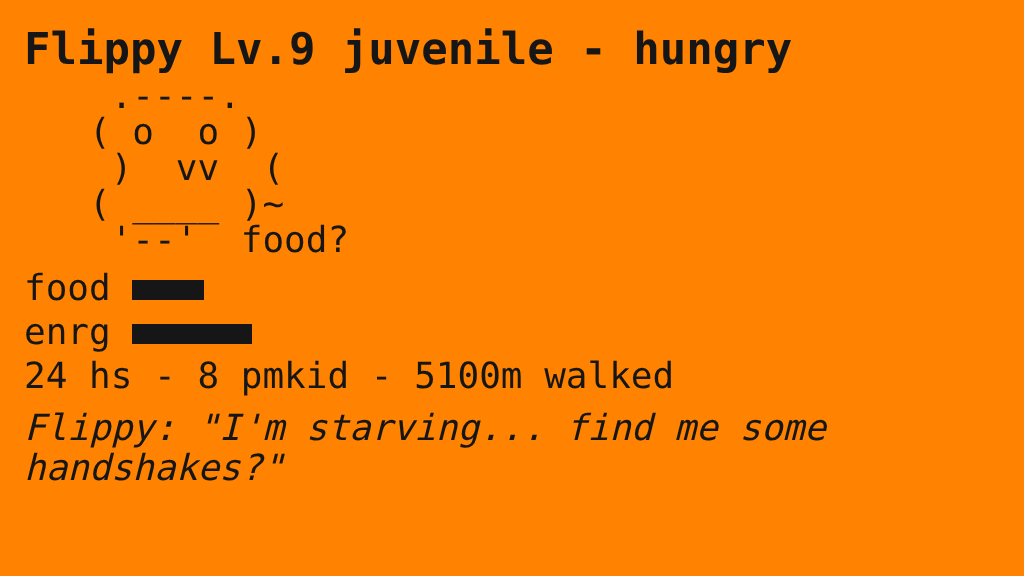
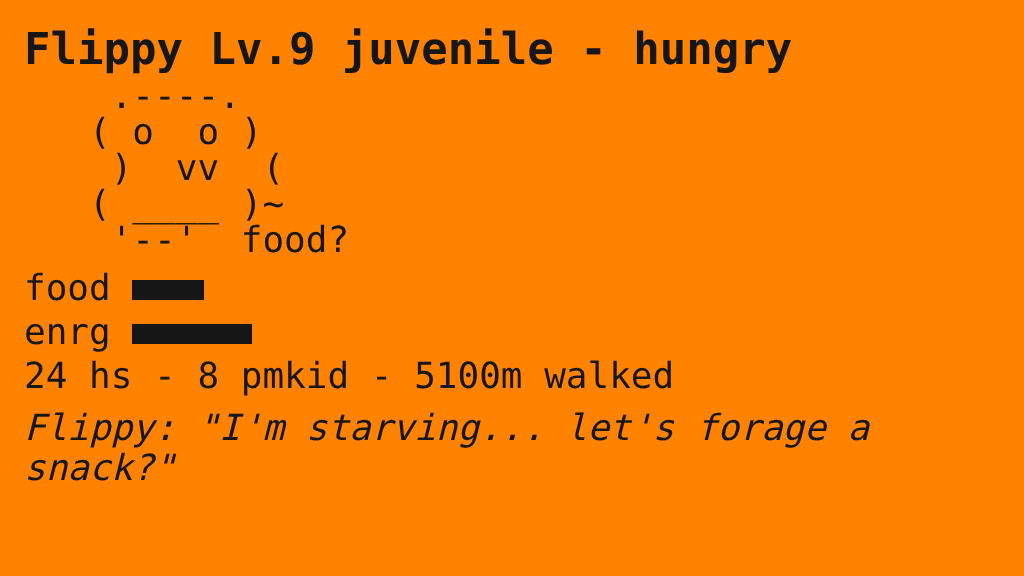
Add animated Flipper One demo GIF + refresh renders for new economy
- docs/demo.gif: catch sequence on a stylised Flipper One chassis (original CSS
  art) wrapping the exact 256x144 orange LCD; generator kept at docs/gen-demo-gif.js
- regenerated static LCD renders to match the foraging economy
- canned "hungry" line no longer calls handshakes food
- remove stale loot_chance from config.example
- README: lead with the animated GIF; note the chassis is original art

Changed region(s): [[0.5625, 0.7188, 0.8438, 0.7812], [0.0312, 0.7812, 0.2812, 0.8438]]

diff --git a/docs/gen-demo-gif.js b/docs/gen-demo-gif.js
@@ -1,0 +1,105 @@
+// Render an animated Flipper One mock-up: a stylised chassis (CSS, original art
+// — the docs ship no device image) wrapping the exact 256x144 orange LCD, cycling
+// through the catch sequence. Frames -> PNGs; Pillow stitches the GIF.
+const { chromium } = require('playwright');
+const fs = require('fs');
+
+const OUT = '/root/flippergotchi/docs/_frames';
+fs.mkdirSync(OUT, { recursive: true });
+const esc = s => s.replace(/&/g, '&amp;').replace(/</g, '&lt;').replace(/>/g, '&gt;');
+
+const FACES = {
+  happy: "   .----.\n  ( ^  ^ )\n   )  ww  (\n  ( '--' )~\n   '----'",
+  excited: "  *.----.*\n  ( O  O )\n   )  WW  (\n  ( '--' )~\n   '----' !!",
+};
+const SCENES = {
+  popup: " A wild Crypterion appeared!\n NETGEAR  Lv8  [wpa2]\n\n   [A] CAPTURE      [B] RUN",
+  aim: "  .--.             ( ~ ~ )\n ( oo )===O        (Crypterion)\n  '--'             ( ~ ~ )\n takes aim with the net-gun...",
+  fire: "  .--.   o O o     ( ~ ~ )\n ( oo )-- * * ---> (Crypterion)\n  '--'             ( ~ ~ )\n *fwoomp* -- net away!",
+  net: "  .--.           #=[   ]=#\n ( ^^ )          #(Crypterion)#\n  '--'           #=[   ]=#\n ...will it hold?",
+  gotcha: " \\(^o^)/         [#######]\n                [Crypterion]  GOTCHA!\n                [#######]\n handshake netted -> bestiary!",
+};
+
+function bar(pct) {
+  return `<span class="bar" style="width:${Math.round(pct * 1.6)}px"></span>`;
+}
+function faceScreen(header, face, say) {
+  return `<div class="hdr">${esc(header)}</div>
+    <pre class="face">${esc(face)}</pre>
+    <div class="row">food ${bar(78)}</div>
+    <div class="row">enrg ${bar(64)}</div>
+    <div class="say">${esc(say)}</div>`;
+}
+function sceneScreen(say, pre) {
+  return `<pre class="big">${esc(pre)}</pre><div class="say">${esc(say)}</div>`;
+}
+
+const CSS = `
+  *{box-sizing:border-box} body{margin:0;background:#0d0d0f;}
+  .device{width:880px;padding:26px 30px 22px;border-radius:46px;
+    background:linear-gradient(160deg,#ff8a1e,#f4760b 60%,#d9620a);
+    box-shadow:inset 0 2px 6px rgba(255,255,255,.35),0 14px 40px rgba(0,0,0,.5);}
+  .brand{font:700 15px/1 monospace;letter-spacing:3px;color:#3a1c02;
+    text-align:right;margin-bottom:12px;opacity:.8;}
+  .bezel{background:#141414;border-radius:18px;padding:16px;
+    box-shadow:inset 0 0 0 2px #000,inset 0 0 14px rgba(0,0,0,.8);}
+  .screen{width:520px;height:292px;margin:0 auto;background:#ff8c12;color:#161008;
+    font-family:'DejaVu Sans Mono',monospace;padding:14px 16px;border-radius:4px;
+    box-shadow:inset 0 0 18px rgba(120,60,0,.55);}
+  .hdr{font:700 15px/1.2 monospace;}
+  .face{font:15px/15px monospace;white-space:pre;margin:6px 0;}
+  .big{font:15px/17px monospace;white-space:pre;margin:18px 0 0;}
+  .row{font:13px/1.5 monospace;}
+  .bar{display:inline-block;height:8px;background:#161008;vertical-align:middle;}
+  .say{font:italic 13px/1.3 monospace;margin-top:10px;}
+  .controls{display:flex;align-items:center;justify-content:space-between;
+    padding:20px 24px 4px;}
+  .dpad{position:relative;width:96px;height:96px;}
+  .dpad div{position:absolute;background:#2a2a2a;border-radius:6px;
+    box-shadow:0 2px 3px rgba(0,0,0,.5);}
+  .dpad .h{top:34px;left:6px;width:84px;height:28px;}
+  .dpad .v{top:6px;left:34px;width:28px;height:84px;}
+  .dpad .c{top:34px;left:34px;width:28px;height:28px;background:#3a3a3a;
+    border-radius:50%;z-index:2;}
+  .abtns{display:flex;gap:20px;}
+  .abtns b{width:54px;height:54px;border-radius:50%;display:grid;place-items:center;
+    font:700 18px/1 monospace;color:#3a1c02;background:#ffd089;
+    box-shadow:0 3px 4px rgba(0,0,0,.4),inset 0 2px 3px rgba(255,255,255,.6);}
+`;
+function chassis(screenHTML) {
+  return `<!doctype html><html><head><meta charset="utf-8"><style>${CSS}</style></head>
+  <body><div class="device">
+    <div class="brand">FLIPPER ONE</div>
+    <div class="bezel"><div class="screen">${screenHTML}</div></div>
+    <div class="controls">
+      <div class="dpad"><div class="h"></div><div class="v"></div><div class="c"></div></div>
+      <div class="abtns"><b>B</b><b>A</b></div>
+    </div>
+  </div></body></html>`;
+}
+
+const frames = [
+  { ms: 950, html: faceScreen('Flippy Lv.9 juvenile', FACES.happy, 'Flippy: "Best day ever! (^_^)"') },
+  { ms: 1150, html: sceneScreen('Flippy: "Ooh, a wild one!"', SCENES.popup) },
+  { ms: 520, html: sceneScreen('', SCENES.aim) },
+  { ms: 520, html: sceneScreen('', SCENES.fire) },
+  { ms: 560, html: sceneScreen('', SCENES.net) },
+  { ms: 950, html: sceneScreen('Flippy: "Gotcha!"', SCENES.gotcha) },
+  { ms: 1150, html: faceScreen('Flippy Lv.9 juvenile', FACES.excited, 'Flippy: "Caught Crypterion! (^o^)"') },
+];
+
+(async () => {
+  const browser = await chromium.launch();
+  const page = await browser.newPage({ deviceScaleFactor: 2 });
+  const meta = [];
+  for (let i = 0; i < frames.length; i++) {
+    await page.setContent(chassis(frames[i].html));
+    const el = await page.$('.device');
+    const file = `${OUT}/f${String(i).padStart(2, '0')}.png`;
+    await el.screenshot({ path: file });
+    meta.push({ file, ms: frames[i].ms });
+    console.log('frame', i);
+  }
+  fs.writeFileSync(`${OUT}/frames.json`, JSON.stringify(meta));
+  await browser.close();
+})();

diff --git a/flippergotchi/ai/canned.py b/flippergotchi/ai/canned.py
@@ -37,8 +37,8 @@ _LINES = {
         "Step step step... gotta find more signal.",
     ],
     "hungry": [
-        "I'm starving... find me some handshakes?",
-        "So... hungry... need EAPOL...",
+        "I'm starving... let's walk and forage a snack?",
+        "So... hungry... need a treat...",
     ],
     "sick": [
         "I don't feel so good... (x_x)",

diff --git a/README.md b/README.md
@@ -29,10 +29,19 @@ a pwning machine.
 
 ### What it looks like
 
-Renders of the **256×144 FlipCTL LCD mock-up** (generated by the simulation —
-the Flipper One isn't out yet, so these aren't hardware photos):
+The **catch sequence** on a (stylised) Flipper One — the screen is the real
+FlipCTL layout at the device's exact **256×144** orange-backlit spec:
 
-| Idle / happy | Eating a handshake | Hungry |
+![Flippergotchi catch sequence](docs/demo.gif)
+
+> ℹ️ The **chassis is original CSS art**, not an official asset: the Flipper One
+> docs ship no device image and official press renders are copyrighted, so I drew
+> a stylised one rather than bake a copyrighted image into an MIT repo. Swap in an
+> official render anytime. (These are simulation renders — the hardware isn't out.)
+
+Individual LCD states (bare screen):
+
+| Idle / happy | Foraged a snack | Hungry |
 |:---:|:---:|:---:|
 | ![idle](docs/render-idle.png) | ![eating](docs/render-eating.png) | ![hungry](docs/render-hungry.png) |
 